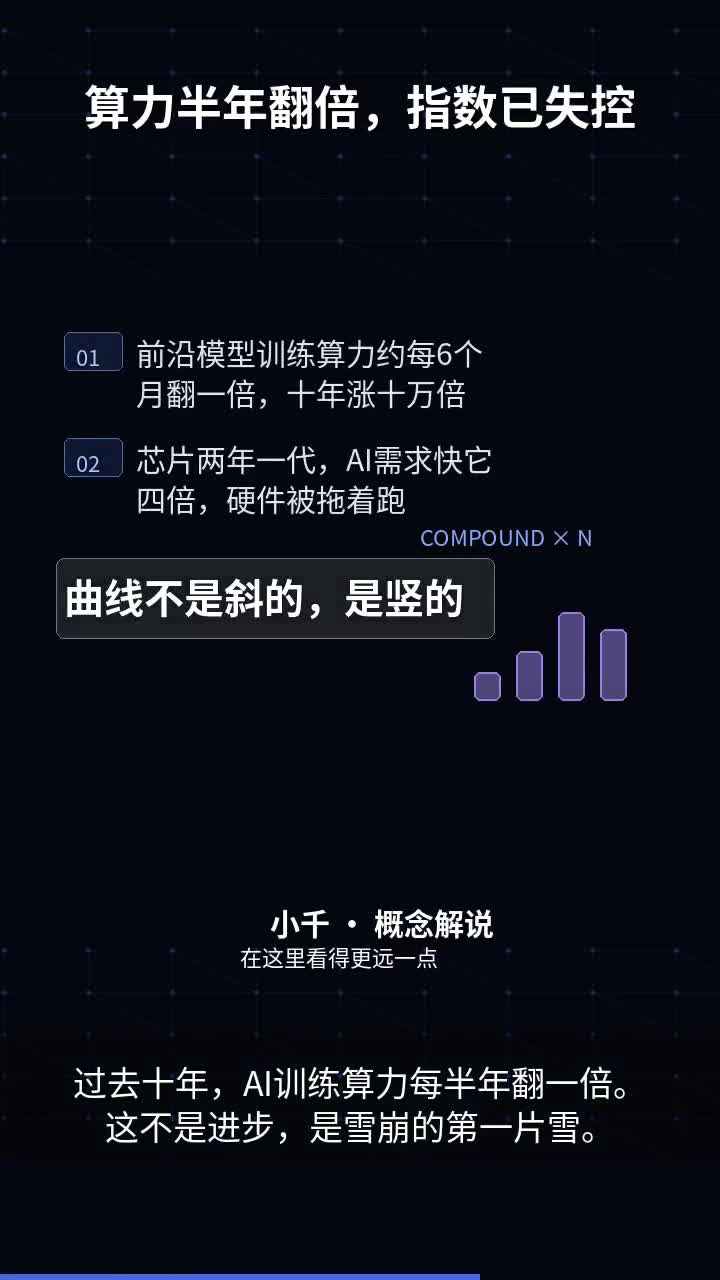
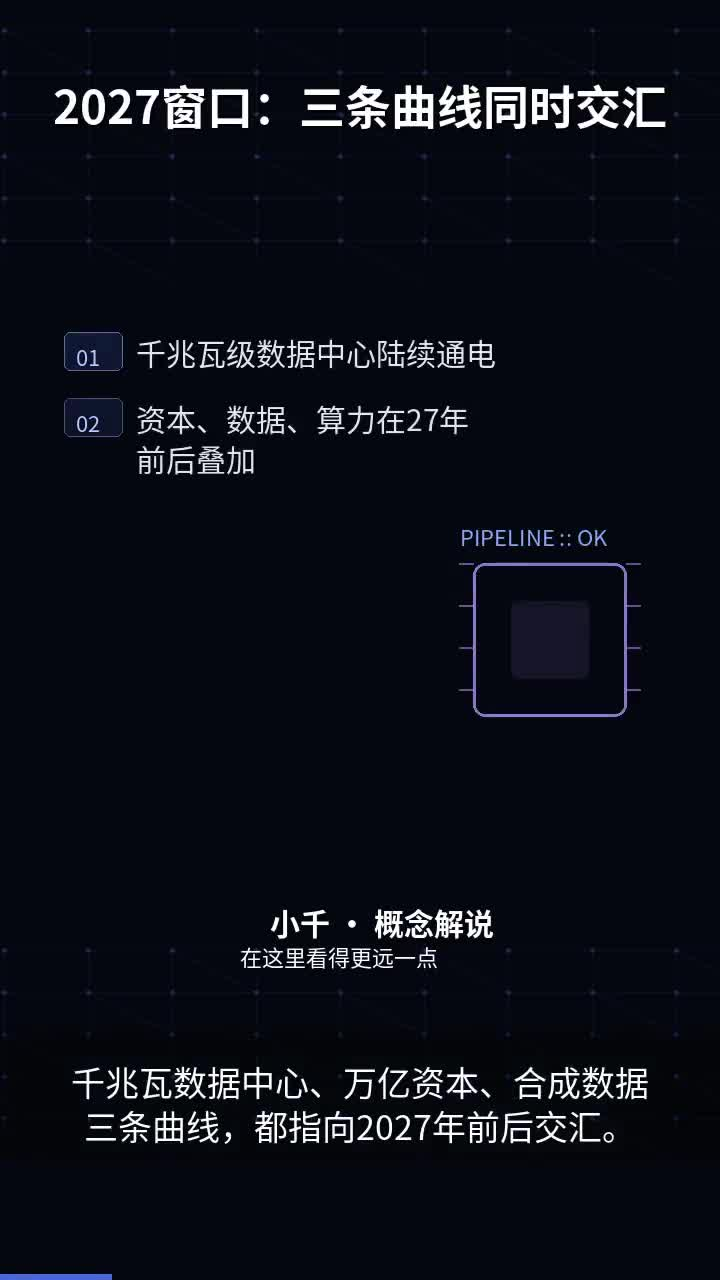
Fix insight flow figure overflow
This is by an automated agent, not a human.

Vertical compact flow inside the right-hand column and annotation moved
clear of the highlight box.

diff --git a/projects/motion-mvp/graph_scene.py b/projects/motion-mvp/graph_scene.py
@@ -357,6 +357,30 @@ def mesh(draw, top, bottom, color=(80, 120, 255), alpha=60):
                 draw.line([(x, y), (x + step, y + step // 2)], fill=color + (alpha // 2,), width=1)
 
 
+def draw_flow_compact(draw, cx, cy, alpha, t):
+    """Vertical three-step flow that fits the right-hand figure column."""
+    labels = ['输入', '计算', '输出']
+    box_w, box_h, gap = 190, 66, 22
+    top = cy - (box_h * 3 + gap * 2) / 2
+    for index, text in enumerate(labels):
+        y = top + index * (box_h + gap)
+        draw.rounded_rectangle([cx - box_w / 2, y, cx + box_w / 2, y + box_h], radius=12,
+                               fill=(13, 20, 38, int(235 * alpha)),
+                               outline=ACCENT2 + (int(220 * alpha),), width=2)
+        f = font(FONT_BOLD, 26)
+        draw.text((cx - f.getlength(text) / 2, y + 18), text, font=f,
+                  fill=(255, 255, 255, int(225 * alpha)))
+        if index < 2:
+            ax = cx
+            ay0 = y + box_h + 2
+            for dash in range(3):
+                offset = (t * 50 + dash * 7) % 18
+                draw.line([(ax, ay0 + offset), (ax, ay0 + offset + 6)],
+                          fill=ACCENT + (int(200 * alpha),), width=3)
+            dot_y = ay0 + 4 + (t * 50) % 18
+            draw.ellipse([ax - 3, dot_y - 3, ax + 3, dot_y + 3], fill=ACCENT2 + (int(230 * alpha),))
+
+
 def render_insight(out, title, items, highlight, subtitle, seconds, figure='brain',
                    brand='小千 · 概念解说', figure_size=280):
     frames_dir = Path(out).with_suffix('')
@@ -420,12 +444,12 @@ def render_insight(out, title, items, highlight, subtitle, seconds, figure='brai
         if figure in ('triangle', 'bars', 'split', 'tokens', 'gear', 'database'):
             drawer(draw, W - 170, 640, 240, fig_alpha, t)
         elif figure == 'flow':
-            pass
+            draw_flow_compact(draw, W - 170, 640, fig_alpha, t)
         else:
             drawer(draw, W - 170, 640, 240, fig_alpha)
         # english annotation, monospace feel
         note = 'COMPOUND × N' if figure in ('brain', 'gear', 'bars') else 'PIPELINE :: OK'
-        draw.text((W - 300, 520), note, font=small_font, fill=(140, 170, 255, int(160 * fig_alpha)))
+        draw.text((W - 260, 330 if figure == 'flow' else 520), note, font=small_font, fill=(140, 170, 255, int(160 * fig_alpha)))
         # brand watermark
         draw.text((W / 2 - 90, 900), brand, font=font(FONT_BOLD, 30),
                   fill=(255, 255, 255, 60))
